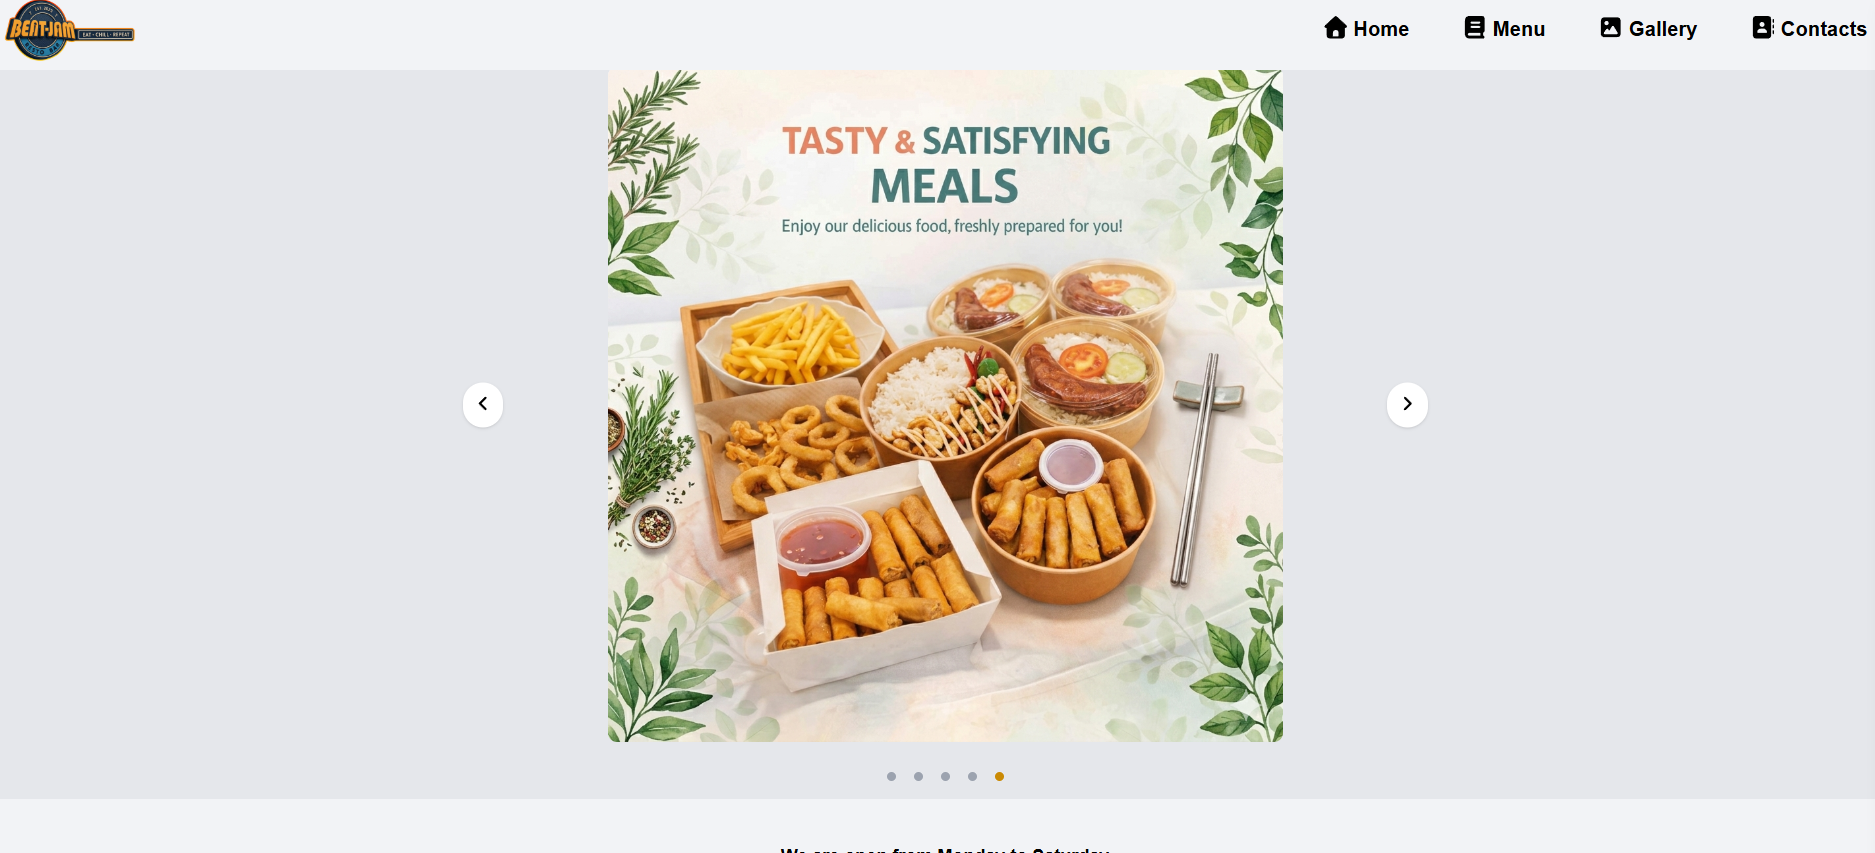
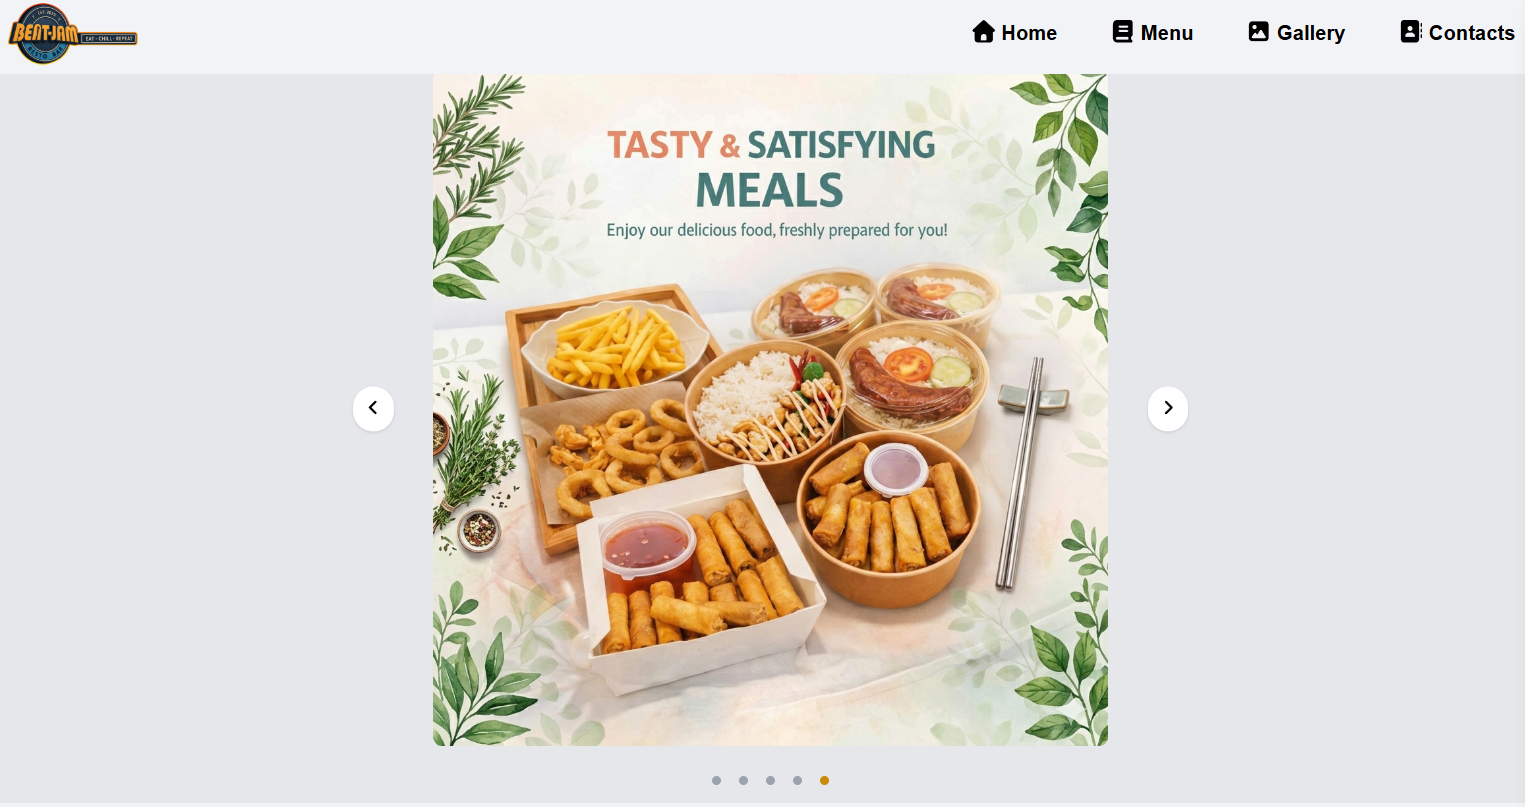
Adjusted image size capture to fit the mobile view preview

diff --git a/src/components/Card.jsx b/src/components/Card.jsx
@@ -9,8 +9,8 @@ const Card = () => {
             {ProjectsData.map((project, index) => (
                 <div className="mx-5 p-5 flex flex-col gap-3 border bg-gray-800/40 border-gray-600 rounded-2xl">
 
-                    <div key={index} className="w-full h-35 overflow-hidden rounded-lg">
-                        <img src={project.image} alt="Beat Jam Preview" />
+                    <div key={index} className="w-full h-45  rounded-lg">
+                        <img src={project.image} alt="Beat Jam Preview" className="h-full w-full object-fit" />
                     </div>
                     <div className="flex flex-row justify-between  ">
                         <div>
@@ -28,11 +28,11 @@ const Card = () => {
                         </div>
                     </div>
                     <div>
-                        <p className="text-gray-400 text-sm">{project.description}</p>
+                        <p className="text-gray-400 text-xs">{project.description}</p>
                     </div>
 
                     <div>
-                        <p className="text-gray-400 text-sm">{project.fullDescription}</p>
+                        <p className="text-gray-400 text-xs">{project.fullDescription}</p>
                     </div>
                     <div className="mt-2">
                         <a href={project.websiteLink} target="_blank" rel="noopener noreferrer" className="text-blue-500 text-sm hover:text-blue-400">
